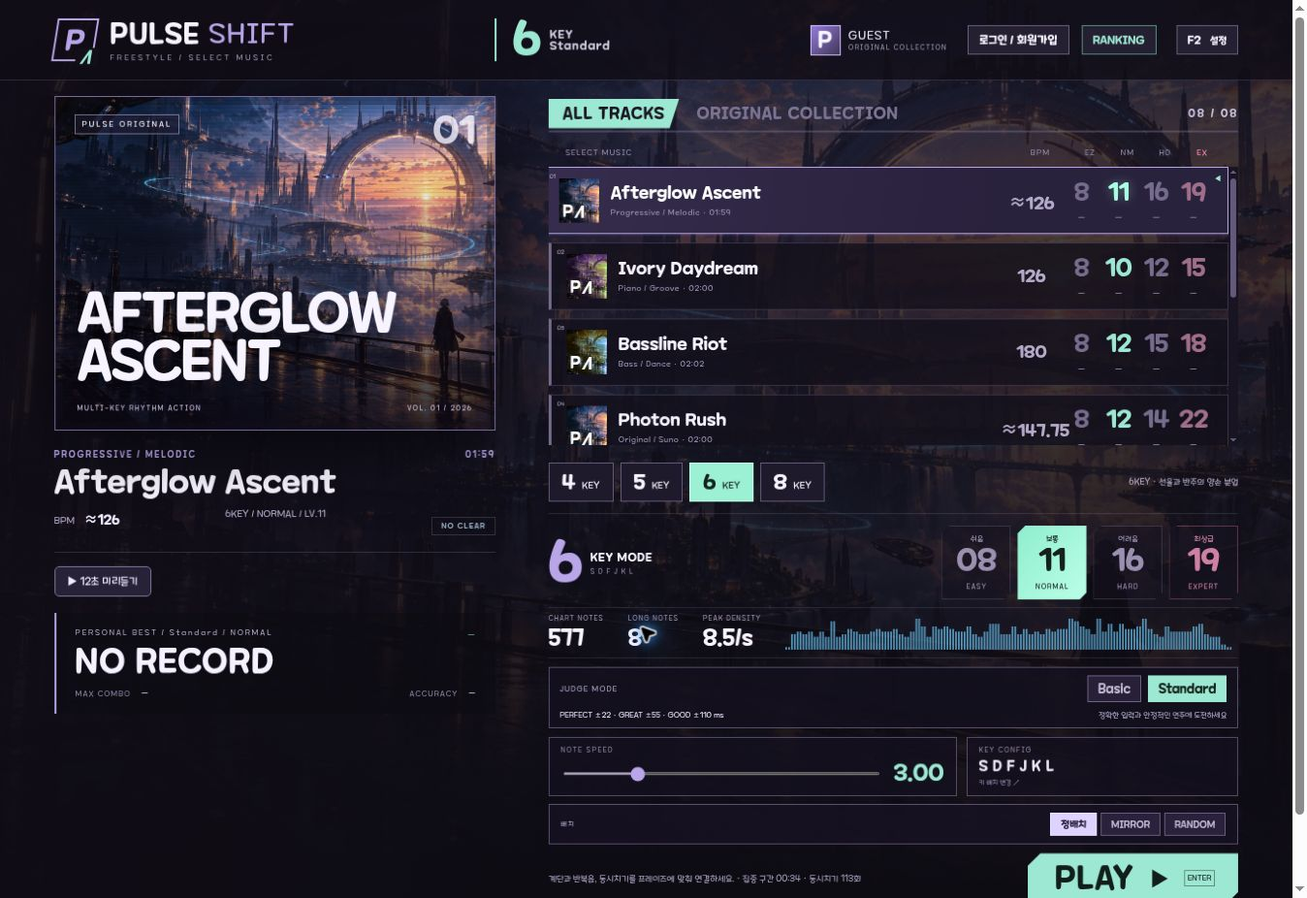
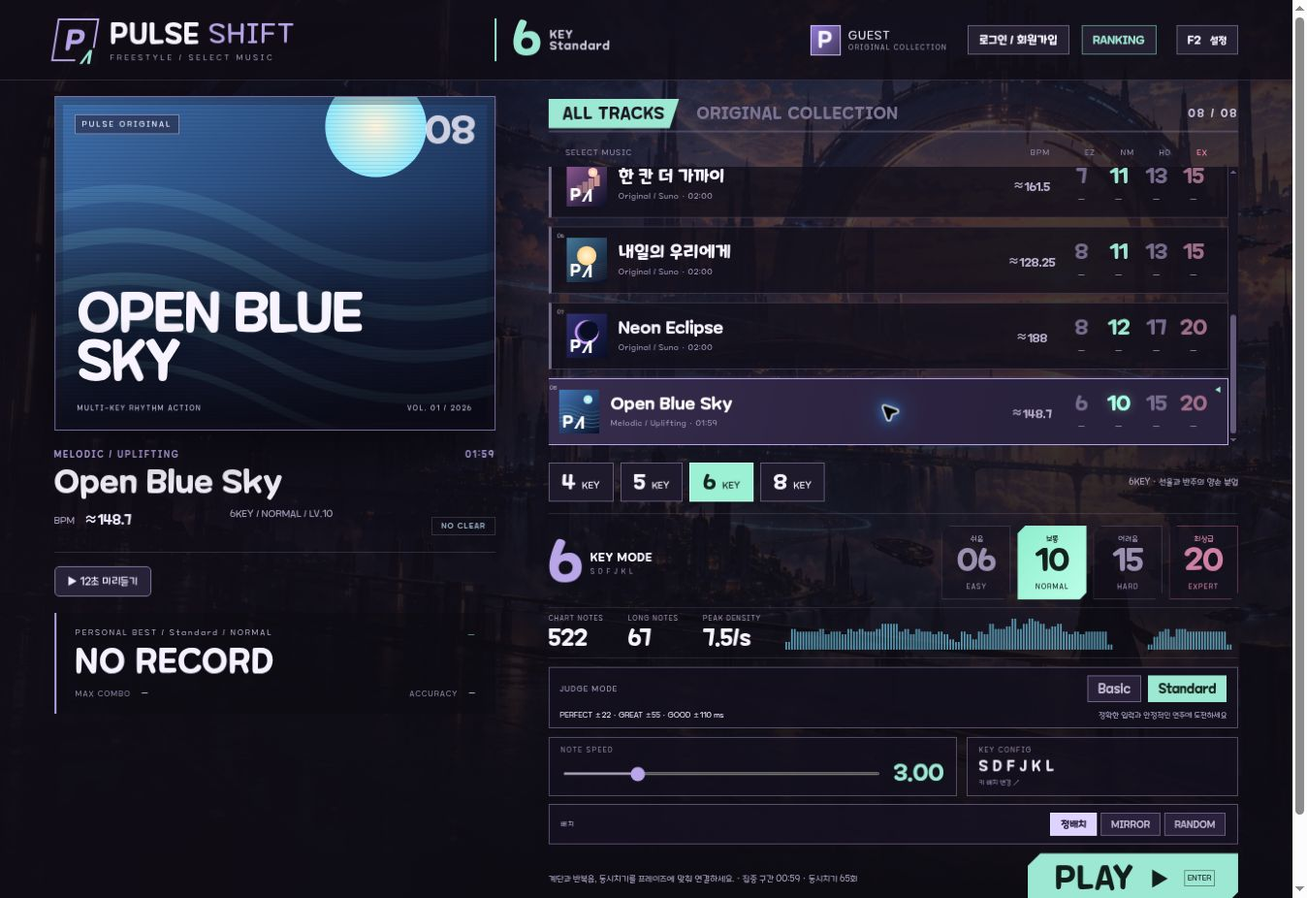
Add files via upload

diff --git a/public/index.html b/public/index.html
@@ -1,4 +1,4 @@
-<!doctype html><html lang="ko"><head><meta charset="UTF-8"><meta name="viewport" content="width=device-width,initial-scale=1,viewport-fit=cover"><meta name="theme-color" content="#090c14"><meta name="description" content="PULSE FIVE — 4·5·6·8키 리듬 액션. 여덟 곡과 모드별 채보."><title>PULSE SHIFT / Rhythm Action</title><link rel="stylesheet" href="style.css?v=28"><link rel="stylesheet" href="palette.css?v=28"></head><body>
+<!doctype html><html lang="ko"><head><meta charset="UTF-8"><meta name="viewport" content="width=device-width,initial-scale=1,viewport-fit=cover"><meta name="theme-color" content="#090c14"><meta name="description" content="PULSE FIVE — 4·5·6·8키 리듬 액션. 여덟 곡과 모드별 채보."><title>PULSE SHIFT / Rhythm Action</title><link rel="stylesheet" href="style.css?v=29"><link rel="stylesheet" href="palette.css?v=29"></head><body>
 <div class="backdrop"><div class="backdrop-image"></div><div class="backdrop-grid"></div><div class="backdrop-vignette"></div></div>
 <section id="selectScreen" class="screen selection"><header class="topbar"><div class="mode-name"><span class="pulse-logo">P<span>Λ</span></span><div><b>PULSE <i>SHIFT</i></b><small>FREESTYLE / SELECT MUSIC</small></div></div><div class="top-mid"><strong>5</strong><span>KEY<br><i id="topJudgeLabel">Standard</i></span></div><div class="player-tag"><span class="player-icon">P</span><div><button id="playerName" class="player-name" aria-label="닉네임 설정·변경">닉네임 설정</button><small>ORIGINAL COLLECTION</small></div><button id="accountMenu" class="top-settings">로그인 / 회원가입</button><button id="openRankings" class="top-settings rank-launch">RANKING</button><button id="openSettings" class="top-settings">F2 <span>설정</span></button></div></header>
 <div class="select-body"><aside class="selected-panel"><div class="jacket" id="jacket"><div class="jacket-visual"></div><div class="jacket-grid"></div><div class="jacket-top"><span>PULSE ORIGINAL</span><b id="jacketIndex">01</b></div><div class="jacket-word" id="jacketWord">BITTERSWEET<br>ASCENSION</div><div class="jacket-bottom"><span>MULTI-KEY RHYTHM ACTION</span><span>VOL. 01 / 2026</span></div></div><div class="selected-track"><div class="selected-kicker"><span id="genre">MELODIC / PROGRESSIVE</span><span id="songLength">03:23</span></div><h1 id="trackTitle">Bittersweet Ascension</h1><div class="track-meta"><span>BPM <b id="bpm">≈126</b></span><span id="chartDescription">MELODY / RHYTHM</span><span id="clearBadge" class="clear-badge" data-clear="0" title="현재 브라우저의 달성 기록">NO CLEAR</span></div></div><div class="song-preview-row"><button id="songPreview" type="button" aria-pressed="false">▶ 12초 미리듣기</button><span id="songPreviewStatus" role="status"></span></div><div class="best-panel"><div class="best-header"><span id="bestLabel">PERSONAL BEST</span><span id="bestGrade">—</span></div><b id="best">NO RECORD</b><div><span>MAX COMBO <b id="bestCombo">—</b></span><span>ACCURACY <b id="bestRate">—</b></span></div></div></aside>
@@ -7,4 +7,4 @@
 <section id="playScreen" class="screen play-screen" hidden><div class="play-backdrop"><div class="bga-shape shape-one"></div><div class="bga-shape shape-two"></div><div class="bga-lines"></div><div class="bga-caption"><span id="bgaKicker">PULSE ORIGINAL</span><strong id="bgaTitle">BITTERSWEET<br>ASCENSION</strong><small>EVERY SOUND BECOMES A MOTION.</small></div></div><header class="play-top"><span class="play-badge"><span id="playKeyCount">5 KEY</span> <b id="playDifficulty">NORMAL</b></span><div id="playTitle">Bittersweet Ascension</div><button id="pauseButton">Ⅱ <span>ENTER</span></button></header><aside class="play-info"><small>PERSONAL BEST</small><b id="playBest">—</b><div class="play-rate"><small>ACCURACY</small><strong id="liveAccuracy">100.00<span>%</span></strong></div><div class="judgement-counts"><span>PERFECT <b id="jPerfect">0</b></span><span>GREAT <b id="jGreat">0</b></span><span>GOOD <b id="jGood">0</b></span><span>MISS <b id="jMiss">0</b></span><span>FAIL <b id="jFail">0</b></span></div><div class="timing-live"><span id="timingLabel">—</span><b id="timingDelta">0 ms</b><small><i id="fastCount">0</i> FAST / <i id="slowCount">0</i> SLOW</small><em id="offsetLive">OFFSET 0 ms</em></div><div class="play-meta"><span id="sessionType">STANDARD PLAY</span><small id="sectionName">OPENING</small></div></aside><div class="gear"><div class="completion-trace" aria-hidden="true"></div><div class="gear-cap"><span id="gearKeyCount">PULSE / 5KEY</span><span id="gearLevel">LV.07</span></div><div class="gear-window"><canvas id="game" aria-label="5키 리듬게임 플레이 영역"></canvas><div id="countdown" class="countdown" hidden><span>READY</span><b>3</b></div></div><div class="gear-deck"><div class="deck-line"></div><div class="gear-brand">PULSE <b>SHIFT</b></div><span id="speedReadout">HI-SPEED 3.00</span></div><div class="gear-score"><small>SCORE</small><b id="score">0000000</b></div></div><div class="life-rail"><span>GROOVE</span><div><i id="lifeFill"></i></div><small id="lifeValue">100</small></div><div class="play-bottom"><span id="playTime">00:00 / 03:23</span><div class="timeline"><i id="progress"></i></div><span>ENTER PAUSE · ESC BACK</span></div><div id="achievementAnnouncement" class="sr-only" role="status" aria-live="polite"></div><div class="touch-pads" id="touchPads"><button data-key="0">D</button><button data-key="1">F</button><button data-key="2">SPACE</button><button data-key="3">J</button><button data-key="4">K</button></div><div class="pause-overlay" id="pauseOverlay" hidden><div class="pause-content"><small>TAKE A BREATH</small><h2>PAUSED</h2><p>Enter 키로 계속 플레이</p><button id="resume">계속 플레이 <span>▶</span></button><button id="restart">처음부터 다시 <span>↻</span></button><button id="exitPlay">곡 선택으로 <span>↗</span></button></div></div></section>
 <dialog id="settingsDialog"><div class="dialog-heading"><div><small>PLAY SETTING</small><h2>환경설정</h2></div><button id="closeSettings" aria-label="설정 닫기">×</button></div><div class="setting-section"><div class="setting-title"><b id="keyConfigTitle">5 KEY CONFIGURATION</b><button id="resetKeys">기본 배치로 초기화</button></div><p>변경할 레인을 선택한 뒤 원하는 키를 누르세요.</p><div class="binding-grid" id="bindingGrid"></div><div class="binding-message" id="bindingMessage" aria-live="polite">Enter: 일시정지 / Esc: 뒤로 가기</div></div><section class="readability-settings"><div class="setting-title"><b>가독성 설정</b><button id="resetReadability" type="button">기본값</button></div><label class="range-label" for="backgroundBrightness"><span>배경 밝기</span><b id="backgroundBrightnessValue">60%</b></label><input id="backgroundBrightness" type="range" min="0" max="100" value="60" step="1"><label class="range-label" for="gearWidthPercent"><span>기어 폭</span><b id="gearWidthPercentValue">100%</b></label><input id="gearWidthPercent" type="range" min="75" max="125" value="100" step="1"><label class="range-label" for="judgePosition"><span>판정 문구 위치 · 위 ↔ 아래</span><b id="judgePositionValue">82%</b></label><input id="judgePosition" type="range" min="35" max="90" value="82" step="1"><div id="readabilityPreview" aria-label="기어 폭과 판정 위치 미리보기"><div id="readabilityMini"><span id="readabilityJudge">PERFECT<small>FAST −12 ms</small></span><i></i></div></div><p class="setting-help">판정 문구 위치만 바뀌며 노트를 누르는 판정선은 그대로입니다. 기어 폭은 화면 크기에 맞춰 제한됩니다. 설정은 자동 저장됩니다.</p></section><section class="gear-skin-settings" aria-labelledby="gearSkinTitle"><div class="setting-title"><b id="gearSkinTitle">GEAR SKIN</b></div><div class="gear-skin-choices"><button type="button" data-gear-choice="ORIGINAL" aria-pressed="false"><span class="mini-gear" aria-hidden="true"><i></i><em></em></span><b>Original</b><small>블루 스틸</small></button><button type="button" data-gear-choice="CARBON" aria-pressed="false"><span class="mini-gear" aria-hidden="true"><i></i><em></em></span><b>Carbon</b><small>무광 카본</small></button><button type="button" data-gear-choice="NEON" aria-pressed="false"><span class="mini-gear" aria-hidden="true"><i></i><em></em></span><b>Neon</b><small>바이올렛 라이트</small></button><button type="button" data-gear-choice="IVORY" aria-pressed="false"><span class="mini-gear" aria-hidden="true"><i></i><em></em></span><b>Ivory</b><small>세라믹 & 골드</small></button></div><p class="setting-help">모든 키 모드에 적용 · 노트 색상은 별도 설정 · 선택 즉시 적용하고 자동 저장합니다.</p></section><div class="visual-settings"><div class="setting-title"><b>NOTE &amp; HIT EFFECT</b><button id="previewHit">다시 보기</button></div><div class="visual-options"><label>노트 모양<select id="noteSkin" aria-label="노트 모양"><option value="BAR">Bar · 바 노트</option><option value="CIRCLE">Circle · 써클 노트</option></select></label><label>타격 이펙트<select id="hitStyle" aria-label="타격 이펙트"><option value="LASER">Laser · 레이저</option><option value="RING">Ring · 링</option><option value="SPARK">Spark · 스파크</option><option value="OFF">Off · 없음</option></select></label><label>이펙트 강도<select id="effectStrength" aria-label="이펙트 강도"><option value="LOW">약하게</option><option value="NORMAL" selected>보통</option><option value="HIGH">강하게</option></select></label></div><section class="eight-color-settings" aria-labelledby="eightColorTitle"><div class="setting-title"><b id="eightColorTitle">8 KEY · NOTE COLORS</b><button id="resetEightColors" type="button">기본 색상</button></div><label class="eight-preset-label" for="eightColorPreset">색상 프리셋</label><select id="eightColorPreset"><option value="CLASSIC">Classic · 화이트 / 블루 / 골드</option><option value="NEON">Neon · 시안 / 핑크 / 라임</option><option value="AURORA">Aurora · 민트 / 라벤더 / 피치</option><option value="EMBER">Ember · 아이보리 / 코럴 / 앰버</option><option value="CUSTOM" disabled>Custom · 사용자 설정</option></select><div class="eight-color-pickers"><label>A · 1 / 3 / 6 / 8<input type="color" data-eight-color="0" aria-label="8키 색상 A"></label><label>B · 2 / 7<input type="color" data-eight-color="1" aria-label="8키 색상 B"></label><label>C · 4 / 5<input type="color" data-eight-color="2" aria-label="8키 색상 C"></label></div><div class="eight-color-preview" aria-label="8키 노트 색상 미리보기"><span data-eight-lane="0"><i></i><b>A</b><small>1</small></span><span data-eight-lane="1"><i></i><b>B</b><small>2</small></span><span data-eight-lane="2"><i></i><b>A</b><small>3</small></span><span data-eight-lane="3"><i></i><b>C</b><small>4</small></span><span data-eight-lane="4"><i></i><b>C</b><small>5</small></span><span data-eight-lane="5"><i></i><b>A</b><small>6</small></span><span data-eight-lane="6"><i></i><b>B</b><small>7</small></span><span data-eight-lane="7"><i></i><b>A</b><small>8</small></span></div><p class="setting-help">8키 전용 · 색상을 누르면 직접 변경할 수 있어요. 좌우 대칭으로 적용되며 자동 저장됩니다.</p></section><canvas id="visualPreview" width="660" height="200" aria-label="노트 모양과 타격 이펙트 미리보기"></canvas><div class="effect-preview-tabs"><button data-effect-preview="PLAY" class="active" aria-pressed="true">타격·롱노트</button><button data-effect-preview="FULL COMBO" aria-pressed="false">FULL COMBO</button><button data-effect-preview="ALL PERFECT" aria-pressed="false">ALL PERFECT</button></div><p class="setting-help" id="visualPreviewCaption">롱노트 유지와 타격 연출 미리보기 · 설정은 자동 저장됩니다.</p><p class="setting-help">강도는 타격·롱노트·완주 연출에 함께 적용됩니다.</p></div><div class="audio-latency-setting"><label for="audioMode">오디오 지연 설정</label><select id="audioMode" aria-label="오디오 지연 설정"><option value="LOW">저지연 · 리듬게임 권장</option><option value="STABLE">안정성 우선 · 끊김이 있을 때</option></select><p id="audioLatencyInfo" class="setting-help">오디오를 재생하면 장치 정보를 표시합니다.</p><p id="audioModeMessage" class="setting-help" aria-live="polite">지연 수치는 브라우저 보고값이며 전체 입력 지연의 실측값은 아닙니다.</p></div><div class="range-label"><span>음량</span><b id="volText">60%</b></div><input id="volume" aria-label="음량" type="range" min="0" max="100" value="60"><div class="range-label"><span>입력 타이밍 보정</span><b id="offsetText">0 ms</b></div><input id="offset" aria-label="입력 타이밍 보정" type="range" min="-200" max="200" step="1" value="0"><div class="offset-actions"><button id="offsetMinus">−1 ms</button><button id="offsetReset">0으로 초기화</button><button id="offsetPlus">+1 ms</button></div><p class="setting-help">+값은 늦은 입력을, −값은 빠른 입력을 보정합니다. 화면과 음악의 속도는 바뀌지 않아요. </p><p class="setting-help" id="judgeWindowsHelp"></p><div class="calibration"><div><b>TIMING CHECK</b><span>클릭 소리에 맞춰 SPACE 또는 아래 버튼을 누르세요.</span></div><button id="calibrateStart">타이밍 측정 시작</button><button id="calibrateTap" hidden>● TAP / SPACE</button><p id="calibrationMessage" aria-live="polite">처음 2박은 준비, 이후 18박을 측정합니다.</p><button id="applyCalibration" hidden>측정값 적용</button></div><label class="toggle"><span>키음 연주 · 놓치면 해당 소리 생략</span><input id="keySound" type="checkbox" checked></label><div class="range-label"><span>키음 음량</span><b id="keysVolText">100%</b></div><input id="keysVolume" aria-label="키음 음량" type="range" min="0" max="150" value="100"><button id="soundTest" class="test-button">♪ 키음 미리듣기</button><p class="setting-help" id="keyAudioMessage">혼합 음원에서 근사 분리한 키음입니다. 끄면 원곡 그대로 재생합니다.</p></dialog>
 <dialog id="resultDialog"><div class="result-content"><header><span>PULSE / SHIFT</span><b id="resultMode">RESULT</b></header><small class="result-kicker">SESSION COMPLETE</small><h2 id="resultTitle">—</h2><div class="result-main"><div class="result-rank" id="grade">A</div><div><small>TOTAL SCORE</small><strong id="resultScore">0000000</strong><span id="resultClear">TRACK COMPLETE</span></div></div><div class="result-details" id="resultDetails"></div><p id="resultInsight" class="result-insight" aria-live="polite"></p><div class="result-timing" id="resultTiming"></div><button id="applyResultOffset" class="test-button" hidden>권장 보정값 적용</button><p id="rankSubmitState" class="rank-submit-state" aria-live="polite"></p><button id="retryRankSubmit" class="test-button" hidden>기록 등록 다시 시도</button><div class="result-actions"><button id="resultRanking">RANKING ↗</button><button id="retry">RETRY ↻</button><button id="back">SELECT MUSIC ↗</button></div></div></dialog>
-<dialog id="rankingDialog"><div class="dialog-heading"><div><small>ONLINE LEADERBOARD</small><h2>곡별 랭킹</h2></div><button id="rankClose" aria-label="랭킹 닫기">×</button></div><div class="ranking-filters"><label>키 모드<select id="rankKeyMode" aria-label="랭킹 키 모드"><option value="4">4 KEY</option><option value="5" selected>5 KEY</option><option value="6">6 KEY</option><option value="8">8 KEY</option></select></label><label>곡<select id="rankSong" aria-label="랭킹 곡"></select></label><label>난이도<select id="rankDifficulty" aria-label="랭킹 난이도"></select></label><label>판정 모드<select id="rankJudge" aria-label="랭킹 판정 모드"><option value="BASIC">Basic</option><option value="STANDARD">Standard</option></select></label><label>배치<select id="rankArrangement" aria-label="랭킹 배치"><option value="NORMAL">정배치</option><option value="MIRROR">미러</option><option value="RANDOM">랜덤</option></select></label></div><div class="rank-profile"><label for="rankNickname">닉네임</label><input id="rankNickname" readonly placeholder="닉네임을 설정해 주세요"><button id="saveRankNickname">닉네임 변경</button></div><p id="rankProfileMessage" class="setting-help" aria-live="polite"></p><div class="ranking-summary"><b id="myRanking"></b><button id="rankRefresh">↻ 새로고침</button></div><p id="rankingState" aria-live="polite"></p><div class="ranking-table-wrap"><table class="ranking-table"><thead><tr><th>RANK</th><th>PLAYER</th><th>SCORE</th><th>ACCURACY</th><th>COMBO</th></tr></thead><tbody id="rankingRows"></tbody></table></div><p class="setting-help">곡·키 모드·난이도·판정 모드·배치가 같은 클리어 기록끼리 비교합니다. 동점은 정확도와 최대 콤보를 비교하고, 모두 같으면 공동 순위입니다.</p></dialog><dialog id="nicknameDialog"><div class="dialog-heading"><div><small>PLAYER PROFILE</small><h2>닉네임 설정</h2></div></div><p class="nickname-intro">온라인 랭킹에 표시할 이름을 정해 주세요.</p><label for="nicknameInput">닉네임 · 2~16자</label><div class="nickname-entry"><input id="nicknameInput" maxlength="32" autocomplete="nickname" placeholder="사용할 닉네임"><button id="nicknameCheck">중복 확인</button></div><p id="nicknameFeedback" class="setting-help" aria-live="polite"></p><div class="nickname-actions"><button id="nicknameLater">나중에 · 개인 기록만</button><button id="nicknameSave">닉네임 저장</button></div><p class="setting-help">닉네임을 설정하지 않아도 플레이할 수 있습니다. 이 경우 온라인 랭킹에는 등록되지 않습니다.</p></dialog><dialog id="accountDialog" aria-labelledby="accountTitle"><div class="account-brand">PULSE / SHIFT</div><h2 id="accountTitle">당신의 리듬을 시작하세요.</h2><p class="account-intro">로그인해서 랭킹에 도전하거나, 게스트로 바로 플레이하세요.</p><div class="account-tabs"><button type="button" data-account-tab="login" aria-pressed="true">로그인</button><button type="button" data-account-tab="register" aria-pressed="false">회원가입</button></div><form id="accountForm"><label for="accountUsername">아이디</label><input id="accountUsername" name="username" autocomplete="username" minlength="3" maxlength="24" pattern="[a-zA-Z0-9_]{3,24}" required placeholder="영문·숫자·_ 3~24자"><label for="accountPassword">비밀번호</label><input id="accountPassword" name="password" type="password" autocomplete="current-password" minlength="10" maxlength="128" required placeholder="10자 이상"><button id="accountSubmit" type="submit">로그인</button></form><p id="accountStatus" role="status"></p><button id="accountGuest" type="button">게스트로 바로 시작 →</button><button id="accountContinue" type="button" hidden>게임으로 돌아가기</button><button id="accountLogout" type="button" hidden>로그아웃</button><p class="setting-help">회원: 닉네임·온라인 랭킹 연결<br>게스트: 이 브라우저에 개인 기록 저장<br>현재 이메일 인증·비밀번호 찾기는 지원하지 않습니다.</p></dialog><script src="tracks.js?v=28"></script><script src="keymodes.js?v=28"></script><script src="keysounds.js?v=28"></script><script src="arrangements.js?v=28"></script><script src="timing.js?v=28"></script><script src="visuals.js?v=28"></script><script src="rankings.js?v=28"></script><script src="chart-insights.js?v=28"></script><script src="clear-badges.js?v=28"></script><script src="game.js?v=28"></script><script src="account.js?v=28"></script></body></html>
+<dialog id="rankingDialog"><div class="dialog-heading"><div><small>ONLINE LEADERBOARD</small><h2>곡별 랭킹</h2></div><button id="rankClose" aria-label="랭킹 닫기">×</button></div><div class="ranking-filters"><label>키 모드<select id="rankKeyMode" aria-label="랭킹 키 모드"><option value="4">4 KEY</option><option value="5" selected>5 KEY</option><option value="6">6 KEY</option><option value="8">8 KEY</option></select></label><label>곡<select id="rankSong" aria-label="랭킹 곡"></select></label><label>난이도<select id="rankDifficulty" aria-label="랭킹 난이도"></select></label><label>판정 모드<select id="rankJudge" aria-label="랭킹 판정 모드"><option value="BASIC">Basic</option><option value="STANDARD">Standard</option></select></label><label>배치<select id="rankArrangement" aria-label="랭킹 배치"><option value="NORMAL">정배치</option><option value="MIRROR">미러</option><option value="RANDOM">랜덤</option></select></label></div><div class="rank-profile"><label for="rankNickname">닉네임</label><input id="rankNickname" readonly placeholder="닉네임을 설정해 주세요"><button id="saveRankNickname">닉네임 변경</button></div><p id="rankProfileMessage" class="setting-help" aria-live="polite"></p><div class="ranking-summary"><b id="myRanking"></b><button id="rankRefresh">↻ 새로고침</button></div><p id="rankingState" aria-live="polite"></p><div class="ranking-table-wrap"><table class="ranking-table"><thead><tr><th>RANK</th><th>PLAYER</th><th>SCORE</th><th>ACCURACY</th><th>COMBO</th></tr></thead><tbody id="rankingRows"></tbody></table></div><p class="setting-help">곡·키 모드·난이도·판정 모드·배치가 같은 클리어 기록끼리 비교합니다. 동점은 정확도와 최대 콤보를 비교하고, 모두 같으면 공동 순위입니다.</p></dialog><dialog id="nicknameDialog"><div class="dialog-heading"><div><small>PLAYER PROFILE</small><h2>닉네임 설정</h2></div></div><p class="nickname-intro">온라인 랭킹에 표시할 이름을 정해 주세요.</p><label for="nicknameInput">닉네임 · 2~16자</label><div class="nickname-entry"><input id="nicknameInput" maxlength="32" autocomplete="nickname" placeholder="사용할 닉네임"><button id="nicknameCheck">중복 확인</button></div><p id="nicknameFeedback" class="setting-help" aria-live="polite"></p><div class="nickname-actions"><button id="nicknameLater">나중에 · 개인 기록만</button><button id="nicknameSave">닉네임 저장</button></div><p class="setting-help">닉네임을 설정하지 않아도 플레이할 수 있습니다. 이 경우 온라인 랭킹에는 등록되지 않습니다.</p></dialog><dialog id="accountDialog" aria-labelledby="accountTitle"><div class="account-brand">PULSE / SHIFT</div><h2 id="accountTitle">당신의 리듬을 시작하세요.</h2><p class="account-intro">로그인해서 랭킹에 도전하거나, 게스트로 바로 플레이하세요.</p><div class="account-tabs"><button type="button" data-account-tab="login" aria-pressed="true">로그인</button><button type="button" data-account-tab="register" aria-pressed="false">회원가입</button></div><form id="accountForm"><label for="accountUsername">아이디</label><input id="accountUsername" name="username" autocomplete="username" minlength="3" maxlength="24" pattern="[a-zA-Z0-9_]{3,24}" required placeholder="영문·숫자·_ 3~24자"><label for="accountPassword">비밀번호</label><input id="accountPassword" name="password" type="password" autocomplete="current-password" minlength="10" maxlength="128" required placeholder="10자 이상"><button id="accountSubmit" type="submit">로그인</button></form><p id="accountStatus" role="status"></p><button id="accountGuest" type="button">게스트로 바로 시작 →</button><button id="accountContinue" type="button" hidden>게임으로 돌아가기</button><button id="accountLogout" type="button" hidden>로그아웃</button><p class="setting-help">회원: 닉네임·온라인 랭킹 연결<br>게스트: 이 브라우저에 개인 기록 저장<br>현재 이메일 인증·비밀번호 찾기는 지원하지 않습니다.</p></dialog><script src="tracks.js?v=29"></script><script src="keymodes.js?v=29"></script><script src="keysounds.js?v=29"></script><script src="arrangements.js?v=29"></script><script src="timing.js?v=29"></script><script src="visuals.js?v=29"></script><script src="rankings.js?v=29"></script><script src="chart-insights.js?v=29"></script><script src="clear-badges.js?v=29"></script><script src="game.js?v=29"></script><script src="account.js?v=29"></script></body></html>

diff --git a/public/game.js b/public/game.js
@@ -81,7 +81,7 @@ function assignBinding(code){
 function refresh(){
  const t=tracks[selected],current=readBest(),legacy=readLegacyBest(),best=current||legacy,chart=t.charts[diff];
  document.documentElement.style.setProperty('--accent',t.color);document.body.classList.toggle('expert-mode',diff===3);document.documentElement.style.setProperty('--jacket',([0,48,170,215,320,30,265][selected]||0)+'deg');
- $('#jacketIndex').textContent=String(selected+1).padStart(2,'0');$('#jacketWord').innerHTML=t.short;
+ $('#jacketIndex').textContent=String(selected+1).padStart(2,'0');$('#jacketWord').innerHTML=t.short;$('.jacket-visual').style.backgroundImage="linear-gradient(0deg,#070b1880,transparent 65%),url('assets/jackets/"+t.id+".svg')";
  $('#trackTitle').textContent=t.name;$('#bpm').textContent=t.bpmLabel;$('#genre').textContent=t.genre.toUpperCase();$('#songLength').textContent=formatTime(t.duration);
  const badge=displayedClearBadge();$('#clearBadge').textContent=CLEAR_BADGE_LABELS[badge];$('#clearBadge').dataset.clear=badge;$('#clearBadge').title=JUDGE_LABELS[judgeMode]+' / '+arrangementMode+' · 현재 브라우저의 달성 기록';
  $('#chartDescription').textContent=keyCount+'KEY / '+DIFF[diff]+' / LV.'+t.levels[diff];
@@ -105,7 +105,7 @@ function setJudgeMode(mode){if(state!=='idle'||!JUDGE_PRESETS[mode])return;judge
 function setArrangement(mode){if(state!=='idle'||!ARRANGEMENT_MODES.includes(mode))return;arrangementMode=mode;if(mode==='RANDOM')randomSeed=newArrangementSeed();savePrefs();refresh()}
 function selectTrack(i){if(state!=='idle')return;stopSongPreview();selected=(i+tracks.length)%tracks.length;refresh();document.querySelectorAll('.song')[selected]?.scrollIntoView?.({block:'nearest'})}
 function selectDifficulty(i){if(state!=='idle')return;diff=(i+DIFF.length)%DIFF.length;refresh()}
-tracks.forEach((t,i)=>{const b=document.createElement('button');b.className='song';b.innerHTML='<span class="song-num">0'+(i+1)+'</span><div class="thumb '+['','b','c'][i]+'"></div><div class="song-copy"><span class="song-name">'+t.name+'</span><small>'+t.genre+' · '+formatTime(t.duration)+'</small></div><span class="song-bpm">'+t.bpmLabel+'</span>'+t.levels.map((l,d)=>'<span class="song-level'+(d===3?' expert-level':'')+'">'+l+'</span>').join('');b.onclick=()=>selectTrack(i);$('#songs').append(b)});
+tracks.forEach((t,i)=>{const b=document.createElement('button');b.className='song';b.innerHTML='<span class="song-num">0'+(i+1)+'</span><div class="thumb '+['','b','c'][i]+'"></div><div class="song-copy"><span class="song-name">'+t.name+'</span><small>'+t.genre+' · '+formatTime(t.duration)+'</small></div><span class="song-bpm">'+t.bpmLabel+'</span>'+t.levels.map((l,d)=>'<span class="song-level'+(d===3?' expert-level':'')+'">'+l+'</span>').join('');b.querySelector('.thumb').style.backgroundImage="url('assets/jackets/"+t.id+".svg')";b.onclick=()=>selectTrack(i);$('#songs').append(b)});
 function lockControls(locked){document.querySelectorAll('.song,[data-keymode],[data-diff],[data-arrangement],[data-judge],#shuffleSeed,#start,#keyConfig').forEach(b=>b.disabled=locked)}
 function createAudioEngine(){ctxAudio=new (window.AudioContext||window.webkitAudioContext)({latencyHint:AUDIO_LATENCY_MODES[audioMode]});master=ctxAudio.createGain();master.gain.value=volume;master.connect(ctxAudio.destination);backgroundBus=ctxAudio.createGain();backgroundBus.connect(master);keyBus=ctxAudio.createGain();keyBus.gain.value=keysVolume;keyBus.connect(master);keyPlayer=new KeySoundPlayer(ctxAudio,backgroundBus,keyBus);refreshAudioInfo()}
 async function initAudio(){if(audioReconfigure)await audioReconfigure;if(!ctxAudio)createAudioEngine();await ctxAudio.resume();refreshAudioInfo()}
@@ -336,3 +336,5 @@ $('#resetEightColors').onclick=()=>{eightNoteColors=EIGHT_COLOR_PRESETS.CLASSIC.
 loadPrefs();applyReadability();applyGearSkin();syncEightColorSettings();$('#effectStrength').value=effectStrength;$('#audioMode').value=audioMode;refreshAudioInfo();$('#noteSkin').value=noteSkin;$('#hitStyle').value=hitStyle;$('#speed').value=speed;$('#volume').value=volume*100;$('#offset').value=offset*1000;$('#keySound').checked=keysEnabled;$('#keysVolume').value=keysVolume*100;$('#keysVolText').textContent=Math.round(keysVolume*100)+'%';$('#volText').textContent=Math.round(volume*100)+'%';$('#offsetText').textContent=Math.round(offset*1000)+' ms';renderBindings();refresh();requestAnimationFrame(draw);
 
 window.addEventListener('pulse-account-change',()=>{if(state==='idle'){stopSongPreview();refresh()}});
+
+window.PulseRefreshProgress=()=>{if(state==='idle')refresh()};

diff --git a/public/style.css b/public/style.css
@@ -129,3 +129,7 @@ dialog{color:#e3edf9;border:1px solid #678ca9;background:#0a1523;width:min(530px
 body{font-synthesis:none}.song-name,.track-title,.launch,.jacket-word{font-style:normal}.song-name{font-size:18px}.song-copy{min-width:0}.song-name{overflow:hidden;text-overflow:ellipsis;white-space:nowrap}
 
 .song-bpm{font-size:12px;white-space:nowrap}.song-level{font-size:22px}
+
+#jacket{background-size:cover;background-position:center}.jacket:before,.thumb:before{display:none!important}.thumb{background-size:cover!important;background-position:center!important;filter:none!important}
+
+.jacket-visual{background-size:cover!important;background-position:center!important}.jacket-visual:before{display:none!important}
